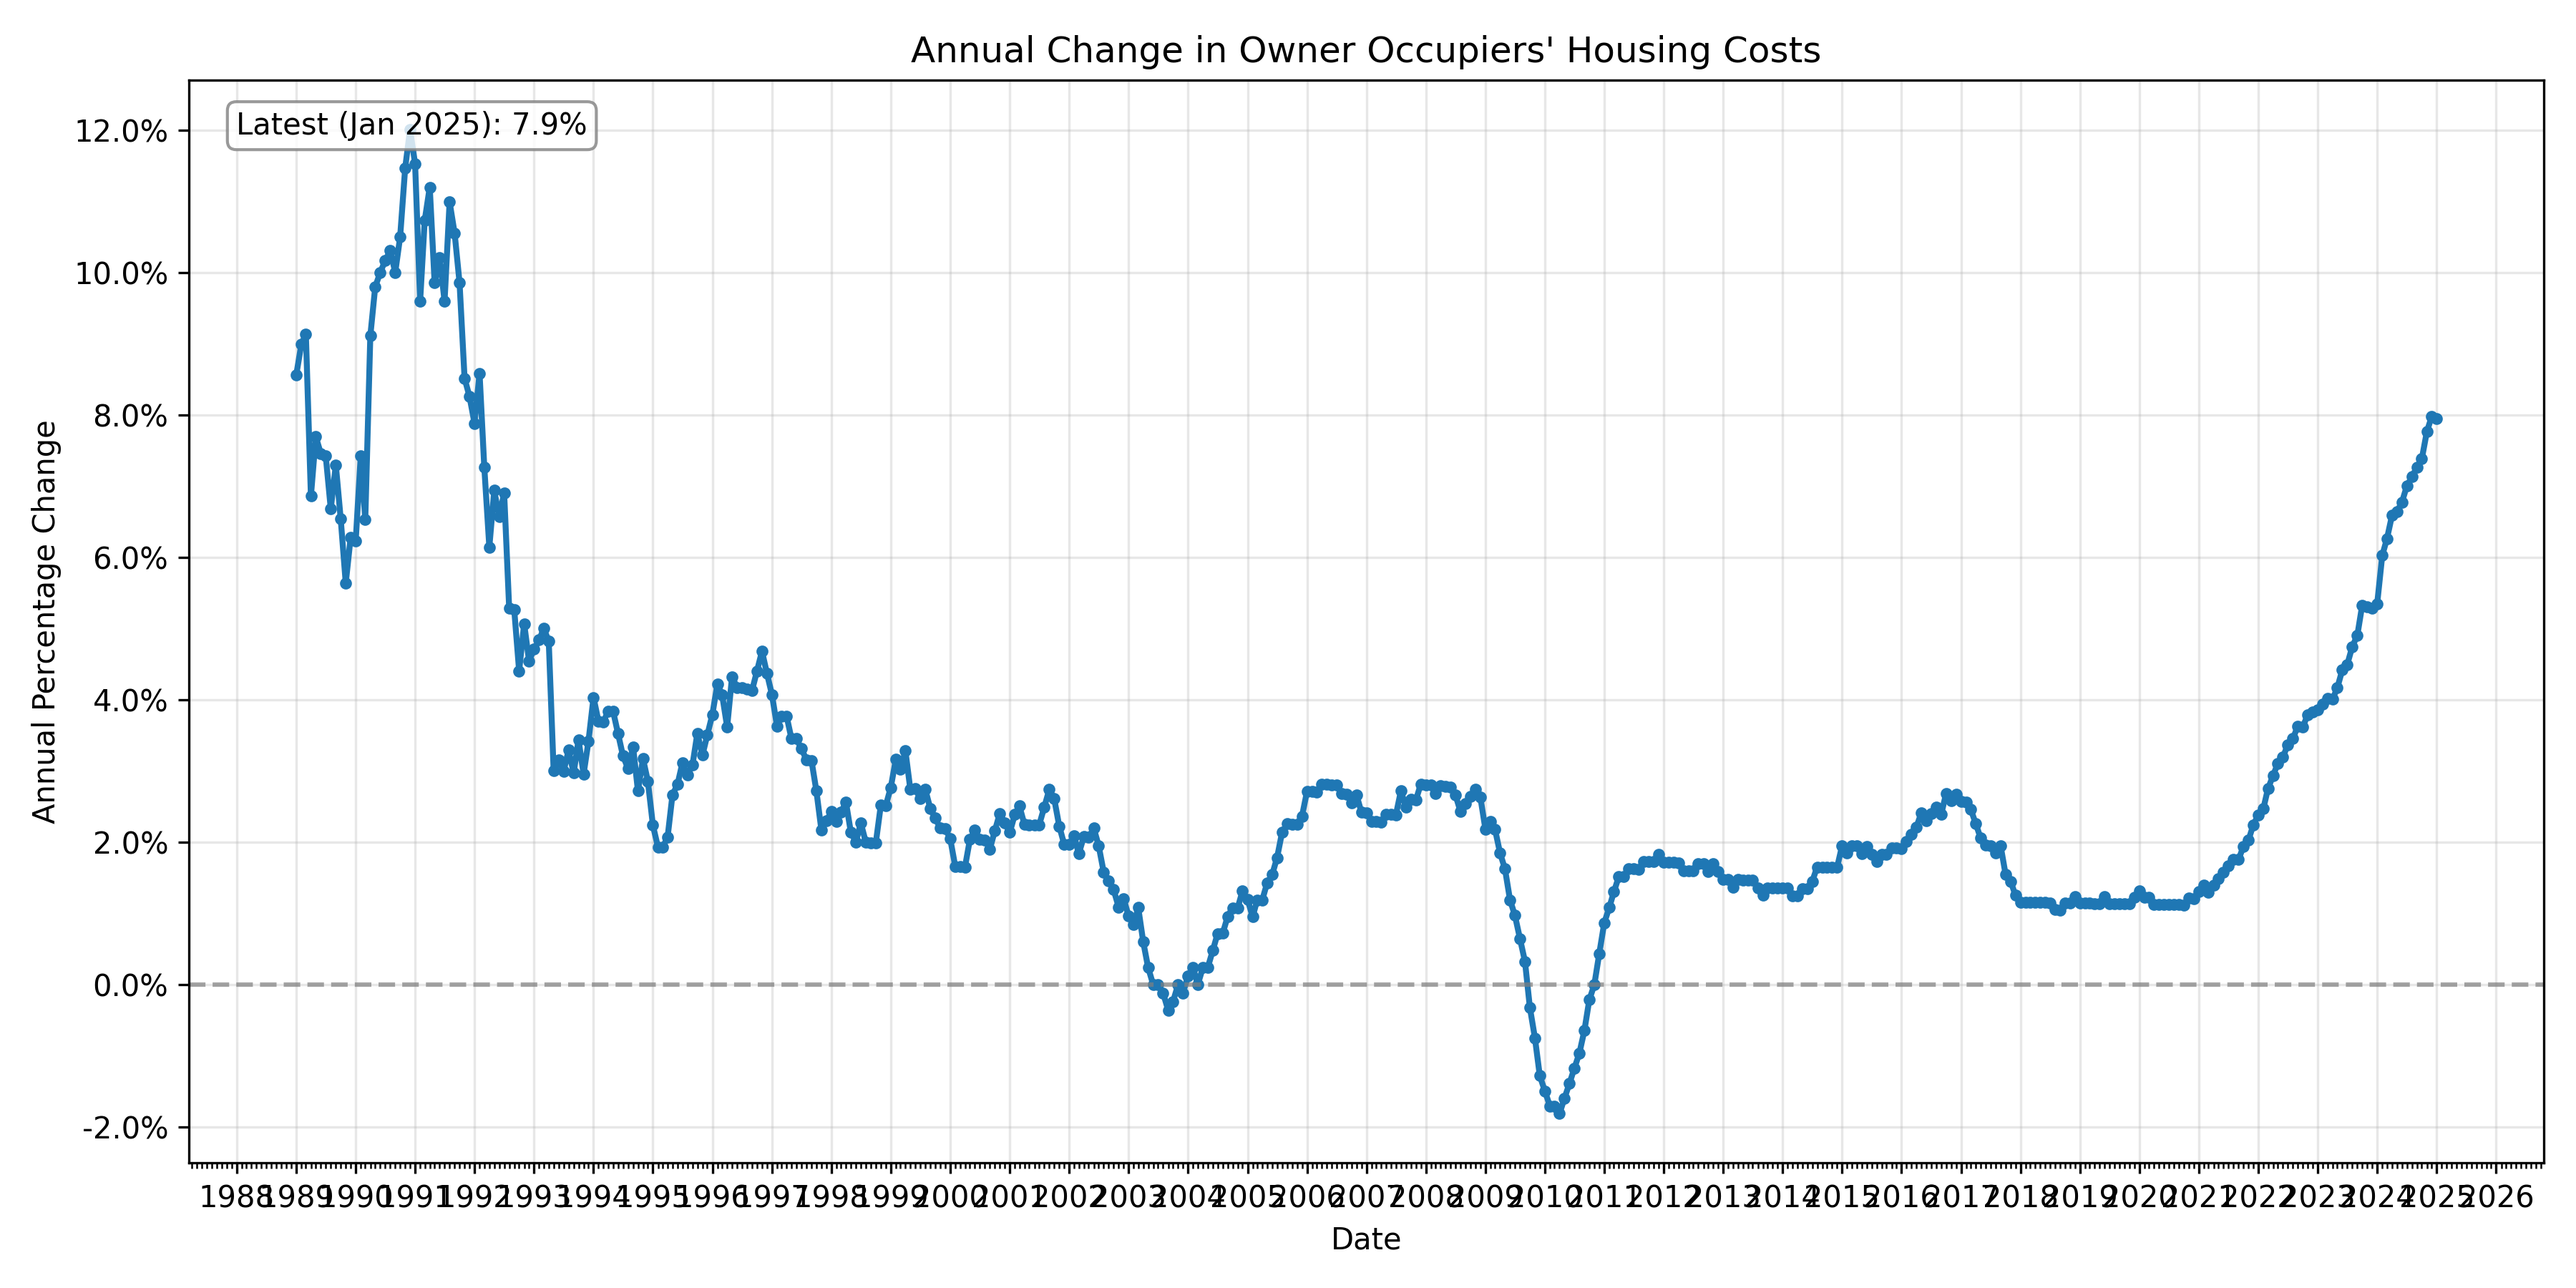
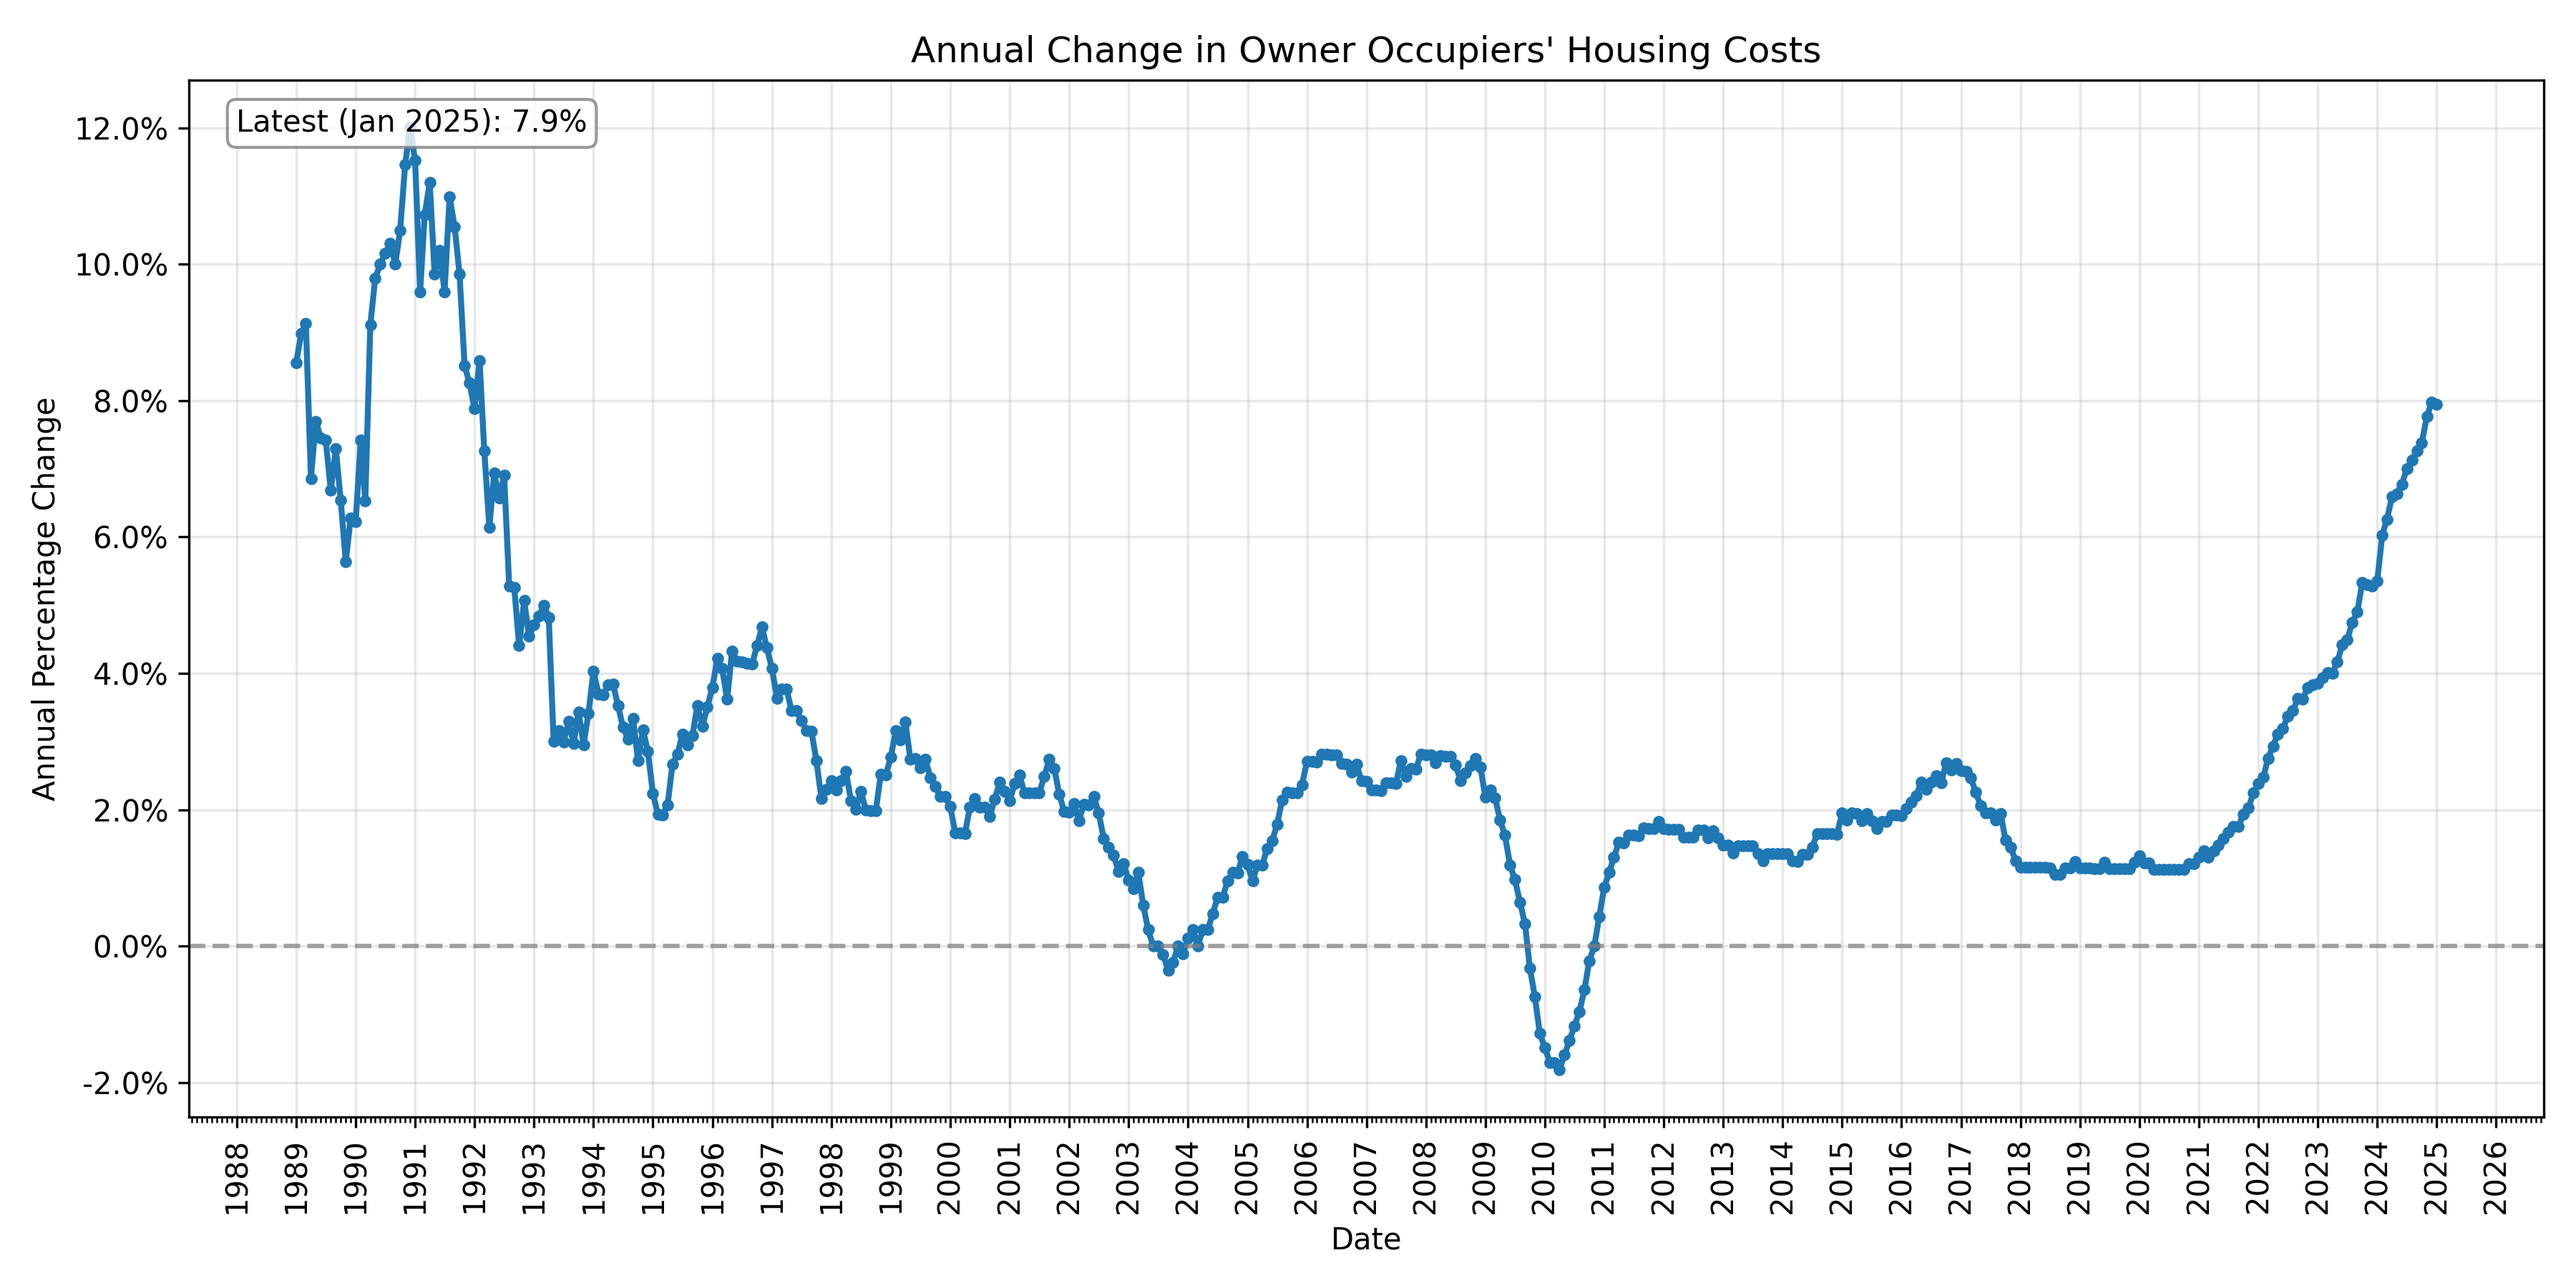
fix assets and examples

diff --git a/examples/example_weekly_deaths.py b/examples/example_weekly_deaths.py
@@ -208,16 +208,6 @@ def plot_weekly_deaths(data, title="Weekly Deaths by Geography", figsize=(14, 7)
             linewidth=1.5,
         )
 
-        # Add scattered points for the actual data points (optional)
-        # Uncomment if you want to see individual data points
-        # ax.scatter(
-        #     group["WeekDate"],
-        #     group["v4_1"],
-        #     color=colors[i],
-        #     s=15,
-        #     alpha=0.4,
-        # )
-
     # Set x-axis date formatting
     from matplotlib.dates import DateFormatter, MonthLocator, YearLocator
 
@@ -225,18 +215,14 @@ def plot_weekly_deaths(data, title="Weekly Deaths by Geography", figsize=(14, 7)
     ax.xaxis.set_major_locator(YearLocator())
     ax.xaxis.set_minor_locator(MonthLocator())
 
-    # Format the date display on x-axis
     ax.xaxis.set_major_formatter(DateFormatter("%Y"))
 
-    # Create a clean, readable legend
     ax.legend(fontsize=8, loc="upper left", bbox_to_anchor=(1, 1))
 
-    # Set labels and title
     ax.set_xlabel("Date")
     ax.set_ylabel("Number of Deaths")
     ax.set_title(title)
 
-    # Add grid for better readability
     ax.grid(True, alpha=0.3)
     plt.xticks(rotation=45)
     plt.tight_layout()
@@ -272,13 +258,13 @@ def main():
             # Save the plot
             if fig is not None:
                 output_file = "weekly_deaths_by_geography.png"
-                plt.savefig(output_file, dpi=300)  # Higher DPI for better quality
+                plt.savefig(output_file, dpi=300)
                 print(f"\nPlot saved to: {output_file}")
 
-                # Show the plot (comment this out if running in a non-interactive environment)
+                # Show the plot
                 plt.show()
 
-                # Also create a plot for each individual geography for better clarity
+                # Also create a plot for each individual geography
                 print("\nCreating individual plots for each geography...")
 
                 for geography in processed_data["Geography"].unique():

diff --git a/examples/example_housing_costs.py b/examples/example_housing_costs.py
@@ -67,7 +67,7 @@ def prepare_housing_costs_data(data):
 
     print("Preparing housing costs data...")
 
-    # Print column names to help diagnose issues
+    # Print column names
     print(f"Column names in dataset: {', '.join(data.columns)}")
 
     # Check if required columns exist
@@ -75,12 +75,6 @@ def prepare_housing_costs_data(data):
     missing_columns = [col for col in required_columns if col not in data.columns]
     if missing_columns:
         print(f"ERROR: Required columns missing: {', '.join(missing_columns)}")
-        # Try to find similar columns
-        for col in missing_columns:
-            similar = [c for c in data.columns if col.lower() in c.lower()]
-            if similar:
-                print(f"  Similar columns to '{col}': {', '.join(similar)}")
-        return None
 
     # Filter for Owner Occupiers Housing Costs (CP042)
     housing_costs = data[data["cpih1dim1aggid"] == "CP042"].copy()
@@ -193,21 +187,7 @@ def plot_housing_costs(
         bbox=dict(boxstyle="round,pad=0.3", fc="white", ec="gray", alpha=0.8),
     )
 
-    # Mark periods of negative growth with light red background
-    neg_ranges = []
-    current_start = None
-
-    for i, row in data.iterrows():
-        if row["annual_pct_change"] < 0:
-            if current_start is None:
-                current_start = row["date"]
-        elif current_start is not None:
-            neg_ranges.append((current_start, row["date"]))
-            current_start = None
-
-    # Handle case where we end with negative values
-    if current_start is not None:
-        neg_ranges.append((current_start, data.iloc[-1]["date"]))
+    plt.xticks(rotation=90)
 
     plt.tight_layout()
 
